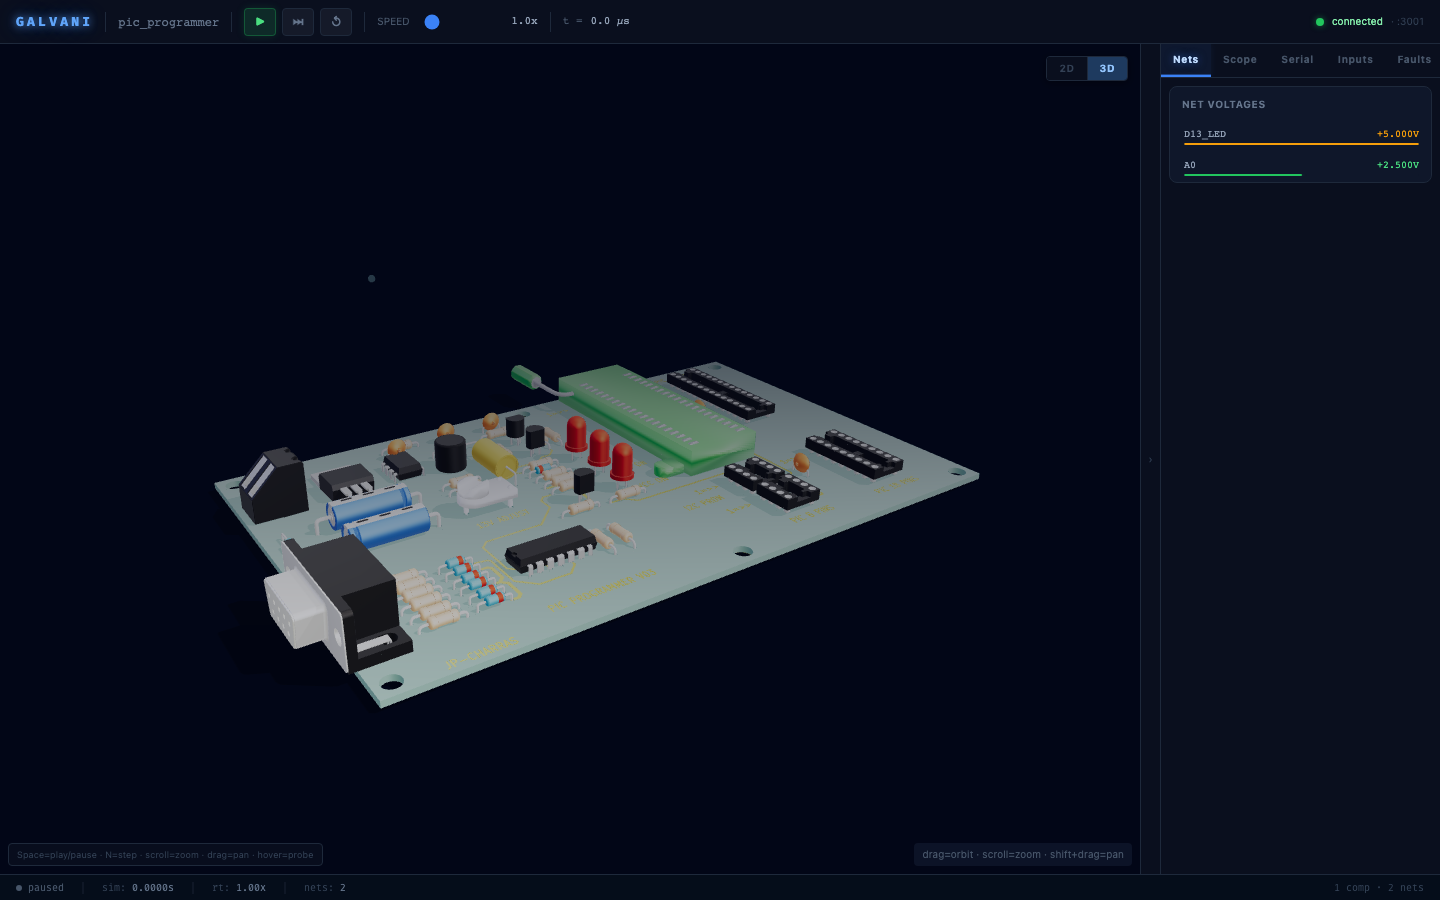
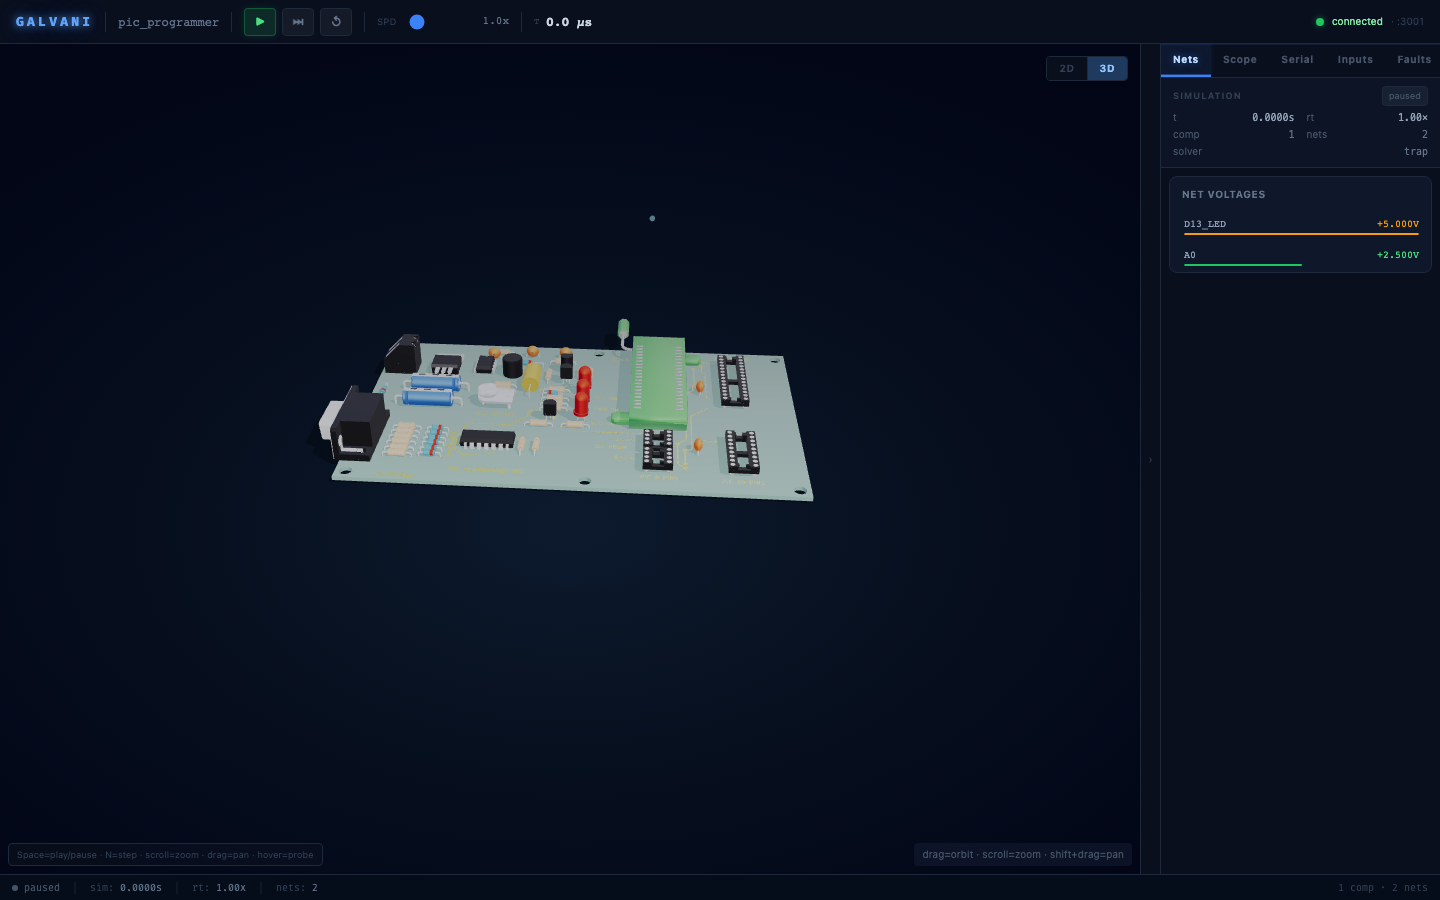
frontend: design-review fixes — sidebar, toolbar, 3D framing, status bar, debug chip
Sidebar (#2): add always-visible Simulation stats card (t, rt, comp, nets, solver)
below tab bar so every tab state looks intentional. Added faint inner top border
accent. Improved empty-state hint on faults tab.

Toolbar (#3): primary sim-time readout bumped to 13px/semibold/bright; secondary
labels (spd, t prefix) dimmed and reduced; speed label compact.

3D framing (#1): renderer uses alpha=true + transparent clear so CSS radial gradient
underlay shows through (eliminates flat black void). Camera fill formula rewritten
to target 65% viewport fill from the board diagonal. Canvas dimensions pre-synced
before Three.js constructor to handle headless Playwright layout. Near-white/flat
GLB materials (roughness>=0.8, lum>0.55) toned down 35% and converted to glossy
plastic (roughness=0.45, envMapIntensity=2.0) so placeholder models read as
physical objects rather than paper cutouts.

Bug #4 (scope status bar clips): beauty-shots.ts scope capture now uses full
1440px viewport instead of 520px; overflow:hidden + min-height on status bar.

Bug #5 (debug chip contradicts status bar): BoardViewer debug chip now uses
frame.net_voltages count when available, matching the status bar reading.

Bug #6 (scope minimap): fixed by full viewport — 2D board area has proper width.

diff --git a/frontend/src/lib/board-3d-viewer.ts b/frontend/src/lib/board-3d-viewer.ts
@@ -47,20 +47,24 @@ export class Board3DViewer {
   private disposed = false
 
   constructor(canvas: HTMLCanvasElement) {
-    // Renderer
-    this.renderer = new THREE.WebGLRenderer({ canvas, antialias: true, alpha: false })
+    // Renderer — alpha:true so the CSS gradient underneath is visible through the canvas
+    this.renderer = new THREE.WebGLRenderer({ canvas, antialias: true, alpha: true })
     this.renderer.setPixelRatio(Math.min(window.devicePixelRatio, 2))
-    this.renderer.setSize(canvas.clientWidth, canvas.clientHeight, false)
+    const rW = canvas.width > 0 ? canvas.width : (canvas.clientWidth > 0 ? canvas.clientWidth : 1280)
+    const rH = canvas.height > 0 ? canvas.height : (canvas.clientHeight > 0 ? canvas.clientHeight : 800)
+    this.renderer.setSize(rW, rH, false)
     this.renderer.shadowMap.enabled = true
     this.renderer.shadowMap.type = THREE.PCFSoftShadowMap
     this.renderer.outputColorSpace = THREE.SRGBColorSpace
     this.renderer.toneMapping = THREE.ACESFilmicToneMapping
     this.renderer.toneMappingExposure = 1.6
+    this.renderer.setClearColor(0x000000, 0) // fully transparent clear
 
     // Scene
     this.scene = new THREE.Scene()
-    this.scene.background = new THREE.Color(0x020617)
-    this.scene.fog = new THREE.FogExp2(0x020617, 3)
+    // No scene.background — let the CSS radial gradient show through the alpha channel
+    // Subtle depth fog — colour matched to background so it doesn't tint the board
+    this.scene.fog = new THREE.FogExp2(0x020617, 1.5)
 
     // Environment map (RoomEnvironment — cheap PMREM IBL, transforms PBR soldermask from flat to shiny)
     const pmremGen = new THREE.PMREMGenerator(this.renderer)
@@ -71,10 +75,13 @@ export class Board3DViewer {
     roomEnv.dispose()
     pmremGen.dispose()
 
-    // Camera
-    this.camera = new THREE.PerspectiveCamera(45, canvas.clientWidth / canvas.clientHeight, 0.001, 10)
+    // Camera — use canvas pixel dimensions (set by attribute) with safe fallback
+    const initW = canvas.width > 0 ? canvas.width : (canvas.clientWidth > 0 ? canvas.clientWidth : 1280)
+    const initH = canvas.height > 0 ? canvas.height : (canvas.clientHeight > 0 ? canvas.clientHeight : 800)
+    this.camera = new THREE.PerspectiveCamera(45, initW / initH, 0.001, 10)
     this.camera.position.set(0.15, 0.12, 0.18)
     this.camera.lookAt(0.12, 0, -0.08)
+    this.camera.updateProjectionMatrix()
 
     // Studio lighting: hemisphere + strong key + cool rim + warm fill
     // Physical light scale: these values are in candela for point/spot; directional needs higher values
@@ -149,20 +156,37 @@ export class Board3DViewer {
     box.getSize(size)
     const maxDim = Math.max(size.x, size.y, size.z)
 
+    // Point orbit controls at board center
     this.controls.target.copy(center)
 
-    // Frame the board tightly. Use the camera FOV to compute the correct orbit
-    // distance so the board fills roughly 75% of the viewport.
-    // Use slightly oblique angle for a product-photo feel.
+    // Frame the board so it fills ~65% of the viewport centered in frame.
+    // Key insight: with an oblique camera angle, we need to offset the look-at
+    // point slightly toward the camera (upward in world space) so the board
+    // appears centered rather than in the lower half.
     const fovRad = (this.camera.fov * Math.PI) / 180
-    const boardSpan = Math.max(size.x, size.z) // board footprint (ignoring height)
-    // Distance needed to see the board at 75% of vertical FOV
-    const dist = (boardSpan * 0.6) / Math.tan(fovRad / 2)
+    const boardSpan = Math.max(size.x, size.z) // board footprint span in metres
+    const boardDiag = Math.sqrt(size.x * size.x + size.z * size.z)
+
+    // Effective half-FOV: use vertical (smaller in landscape) for fill calculation
+    const halfFovV = fovRad / 2  // vertical half-FOV = 22.5° for 45° FOV
+
+    // Distance so the board diagonal fills 65% of the vertical viewport extent
+    const targetFill = 0.65
+    const dist = (boardDiag / 2) / (Math.tan(halfFovV) * targetFill)
+
+    // Product-photo angle: 30° elevation for a shallower, more centered view
+    const elevAngle = 0.52  // radians ~30°
+    const sideOffset = 0.15 // small lateral offset for visual interest
     this.camera.position.set(
-      center.x + boardSpan * 0.3,
-      center.y + dist * 0.6,
-      center.z + dist * 0.8,
+      center.x + sideOffset * boardSpan,
+      center.y + dist * Math.sin(elevAngle),
+      center.z + dist * Math.cos(elevAngle),
     )
+
+    // Shift the lookAt point slightly downward (toward board surface) to
+    // compensate for the overhead camera angle and center the board in frame
+    const lookAtShift = new THREE.Vector3(0, -dist * 0.08, 0)
+    this.controls.target.copy(center).add(lookAtShift)
     this.camera.near = maxDim * 0.001
     this.camera.far = maxDim * 30
     this.camera.updateProjectionMatrix()
@@ -192,15 +216,59 @@ export class Board3DViewer {
       mesh.castShadow = true
       mesh.receiveShadow = true
 
-      // Enhance PBR materials: ensure they pick up the environment map
+      // Enhance PBR materials and darken near-white plastic components
       const mats = Array.isArray(mesh.material) ? mesh.material : [mesh.material]
+      const newMats: THREE.Material[] = []
       for (const mat of mats) {
-        if (mat instanceof THREE.MeshStandardMaterial || mat instanceof THREE.MeshPhysicalMaterial) {
-          // Soldermask tends to be slightly glossy — dial up specular
-          if (mat.roughness > 0.7) mat.roughness = Math.max(0.45, mat.roughness - 0.2)
-          mat.envMapIntensity = 1.5
-          mat.needsUpdate = true
+        // Check for any material that has a .color property (Standard, Physical, Basic, Lambert, Phong)
+        const hasPBR = mat instanceof THREE.MeshStandardMaterial || mat instanceof THREE.MeshPhysicalMaterial
+        const hasFlatColor = mat instanceof THREE.MeshBasicMaterial || mat instanceof THREE.MeshLambertMaterial || mat instanceof THREE.MeshPhongMaterial
+        const matWithColor = mat as THREE.MeshStandardMaterial  // all above have .color
+
+        if (!hasPBR && !hasFlatColor) {
+          newMats.push(mat)
+          continue
         }
+
+        const c = matWithColor.color
+        const lr = c.r, lg = c.g, lb = c.b
+        const luminance = 0.2126 * lr + 0.7152 * lg + 0.0722 * lb
+        const maxC = Math.max(lr, lg, lb)
+        const minC = Math.min(lr, lg, lb)
+        const saturation = maxC > 0.01 ? (maxC - minC) / maxC : 0
+
+        // Near-white/cream placeholder GLB materials look flat and overexposed.
+        // Fix: check if the material is very high-luminance and low-saturation (pure white/cream)
+        // AND has high roughness (unlit flat look). Make it glossier so it reads as plastic.
+        // stickhub mat_0: r=0.871 g=0.791 b=0.604 → lum=0.795 sat=0.307 rough=1.0
+        // For materials where the entire model is one cream color, we tone them down slightly
+        // and add gloss rather than going full dark (which would darken the board body too).
+        if (hasPBR && luminance > 0.55 && saturation < 0.45 && (mat as THREE.MeshStandardMaterial).roughness >= 0.8) {
+          const pbr = mat as THREE.MeshStandardMaterial
+          // Tone the color down by 35% and add gloss
+          pbr.color.multiplyScalar(0.65)
+          pbr.roughness = 0.45
+          pbr.metalness = 0.0
+          pbr.envMapIntensity = 2.0
+          pbr.needsUpdate = true
+          newMats.push(mat)
+          continue
+        }
+
+        if (hasPBR) {
+          // Soldermask tends to be slightly glossy — dial up specular
+          const pbr = mat as THREE.MeshStandardMaterial
+          if (pbr.roughness > 0.7) pbr.roughness = Math.max(0.45, pbr.roughness - 0.2)
+          pbr.envMapIntensity = 1.5
+          pbr.needsUpdate = true
+        }
+        newMats.push(mat)
+      }
+
+      if (Array.isArray(mesh.material)) {
+        mesh.material = newMats
+      } else if (newMats.length === 1) {
+        mesh.material = newMats[0]
       }
     })
 

diff --git a/frontend/src/App.tsx b/frontend/src/App.tsx
@@ -168,6 +168,8 @@ export default function App() {
               width: 280,
               borderLeft: '1px solid #1e293b',
               background: '#0a0f1e',
+              // Inner top border accent gives the panel a grounded top edge
+              boxShadow: 'inset 0 1px 0 rgba(59,130,246,0.12)',
             }}
           >
             {/* Tab bar */}
@@ -199,6 +201,54 @@ export default function App() {
                   )}
                 </button>
               ))}
+            </div>
+
+            {/* Simulation stats — always-visible compact card below the tab bar */}
+            <div
+              className="shrink-0 px-3 py-2"
+              style={{ borderBottom: '1px solid #1e293b', background: 'rgba(15,23,42,0.6)' }}
+            >
+              <div className="flex items-center justify-between mb-1">
+                <span className="text-[9px] font-bold tracking-widest uppercase" style={{ color: '#334155' }}>Simulation</span>
+                <span
+                  className="text-[9px] px-1.5 py-0.5 rounded"
+                  style={{
+                    background: status?.running ? 'rgba(34,197,94,0.12)' : 'rgba(71,85,105,0.2)',
+                    color: status?.running ? '#4ade80' : '#475569',
+                    border: status?.running ? '1px solid rgba(34,197,94,0.25)' : '1px solid #1e293b',
+                  }}
+                >
+                  {status?.running ? 'running' : 'paused'}
+                </span>
+              </div>
+              <div className="grid grid-cols-2 gap-x-3 gap-y-0.5">
+                <div className="flex justify-between">
+                  <span className="text-[10px]" style={{ color: '#475569' }}>t</span>
+                  <span className="text-[10px] font-mono" style={{ color: '#94a3b8' }}>{(status?.sim_time ?? 0).toFixed(4)}s</span>
+                </div>
+                <div className="flex justify-between">
+                  <span className="text-[10px]" style={{ color: '#475569' }}>rt</span>
+                  <span className="text-[10px] font-mono" style={{ color: '#94a3b8' }}>{frame ? `${frame.realtime_factor.toFixed(2)}×` : '—'}</span>
+                </div>
+                {boardInfo && (
+                  <>
+                    <div className="flex justify-between">
+                      <span className="text-[10px]" style={{ color: '#475569' }}>comp</span>
+                      <span className="text-[10px] font-mono" style={{ color: '#64748b' }}>{boardInfo.num_components}</span>
+                    </div>
+                    <div className="flex justify-between">
+                      <span className="text-[10px]" style={{ color: '#475569' }}>nets</span>
+                      <span className="text-[10px] font-mono" style={{ color: '#64748b' }}>{boardInfo.num_nets}</span>
+                    </div>
+                  </>
+                )}
+                {status?.options?.integration && (
+                  <div className="col-span-2 flex justify-between">
+                    <span className="text-[10px]" style={{ color: '#475569' }}>solver</span>
+                    <span className="text-[10px] font-mono" style={{ color: '#64748b' }}>{status.options.integration}</span>
+                  </div>
+                )}
+              </div>
             </div>
 
             {/* Tab content */}
@@ -270,6 +320,13 @@ export default function App() {
                   send={send}
                 />
               )}
+
+              {/* Empty-state hint when the active tab has no data yet */}
+              {(sidebarTab === 'faults' && faultCount === 0) && (
+                <div className="px-4 py-6 flex flex-col items-center gap-2">
+                  <div className="text-[10px] font-mono text-center" style={{ color: '#1e293b' }}>no faults detected</div>
+                </div>
+              )}
             </div>
           </div>
         )}
@@ -277,12 +334,14 @@ export default function App() {
 
       {/* Bottom status bar */}
       <div
-        className="flex items-center gap-4 px-4 shrink-0 text-[10px]"
+        className="flex items-center gap-3 px-3 shrink-0 text-[10px] overflow-hidden"
         style={{
+          minHeight: 26,
           height: 26,
           background: '#050d1a',
           borderTop: '1px solid #1e293b',
           fontFamily: "'JetBrains Mono', 'Fira Code', monospace",
+          flexWrap: 'nowrap',
         }}
       >
         {/* Running indicator */}
@@ -331,7 +390,7 @@ export default function App() {
         {probes.length > 0 && (
           <>
             <span style={{ color: '#1e293b' }}>|</span>
-            <span style={{ color: '#334155' }}>
+            <span className="overflow-hidden" style={{ color: '#334155', maxWidth: 160, whiteSpace: 'nowrap', textOverflow: 'ellipsis' }}>
               probes: <span style={{ color: '#3b82f6' }}>{probes.join(', ')}</span>
             </span>
           </>

diff --git a/frontend/src/components/TransportBar.tsx b/frontend/src/components/TransportBar.tsx
@@ -124,7 +124,7 @@ export function TransportBar({ connected, boardInfo, status, send }: TransportBa
 
       {/* Speed */}
       <div className="flex items-center gap-2">
-        <span className="text-[10px]" style={{ color: '#475569' }}>SPEED</span>
+        <span className="text-[9px] uppercase tracking-wider" style={{ color: '#334155' }}>spd</span>
         <input
           type="range"
           min={0.1}
@@ -132,12 +132,12 @@ export function TransportBar({ connected, boardInfo, status, send }: TransportBa
           step={0.1}
           value={speedInput}
           onChange={handleSpeedChange}
-          className="w-20 h-1 rounded appearance-none cursor-pointer"
+          className="w-16 h-1 rounded appearance-none cursor-pointer"
           style={{ accentColor: '#3b82f6' }}
         />
         <span
           className="text-[11px] font-mono w-8 text-right"
-          style={{ color: '#94a3b8', fontFamily: "'JetBrains Mono', monospace" }}
+          style={{ color: '#64748b', fontFamily: "'JetBrains Mono', monospace" }}
         >
           {speedInput.toFixed(1)}x
         </span>
@@ -145,10 +145,10 @@ export function TransportBar({ connected, boardInfo, status, send }: TransportBa
 
       <div className="w-px h-5 shrink-0" style={{ background: '#1e293b' }} />
 
-      {/* Sim time */}
-      <div className="flex items-center gap-2 text-[11px]" style={{ fontFamily: "'JetBrains Mono', monospace" }}>
-        <span style={{ color: '#475569' }}>t =</span>
-        <span style={{ color: '#94a3b8' }}>{formatTime(simTime)}</span>
+      {/* Sim time — primary readout: larger + brighter */}
+      <div className="flex items-center gap-1.5" style={{ fontFamily: "'JetBrains Mono', monospace" }}>
+        <span className="text-[9px] uppercase tracking-wider" style={{ color: '#334155' }}>t</span>
+        <span className="text-[13px] font-semibold" style={{ color: '#cbd5e1' }}>{formatTime(simTime)}</span>
       </div>
 
       <div className="flex-1" />

diff --git a/frontend/src/components/Board3DViewer.tsx b/frontend/src/components/Board3DViewer.tsx
@@ -36,6 +36,17 @@ export function Board3DViewer({ glbUrl, board, frame, boardInfo, faults }: Board
     setError(null)
 
     const canvas = canvasRef.current
+    const container = containerRef.current
+
+    // Ensure the canvas pixel dimensions are set before Three.js reads them.
+    // In headless (Playwright) the ResizeObserver may not have fired yet; sync explicitly.
+    if (container) {
+      const { width, height } = container.getBoundingClientRect()
+      if (width > 0 && height > 0) {
+        canvas.width = Math.round(width)
+        canvas.height = Math.round(height)
+      }
+    }
 
     import('../lib/board-3d-viewer').then(async ({ Board3DViewer: Viewer3D }) => {
       if (!alive) return
@@ -94,10 +105,18 @@ export function Board3DViewer({ glbUrl, board, frame, boardInfo, faults }: Board
       className="relative w-full h-full overflow-hidden"
       style={{ background: '#020617' }}
     >
+      {/* Radial gradient backdrop — gives the board a grounded space instead of flat black */}
+      <div
+        className="absolute inset-0 pointer-events-none"
+        style={{
+          background: 'radial-gradient(ellipse 70% 60% at 50% 58%, #0d1a2e 0%, #07101f 45%, #020617 100%)',
+          zIndex: 0,
+        }}
+      />
       <canvas
         ref={canvasRef}
         className="absolute inset-0 w-full h-full"
-        style={{ display: 'block' }}
+        style={{ display: 'block', zIndex: 1 }}
       />
 
       {loading && (

diff --git a/frontend/src/components/BoardViewer.tsx b/frontend/src/components/BoardViewer.tsx
@@ -490,7 +490,11 @@ export function BoardViewer({ boardFile, frame, boardInfo, selectedNet, onFootpr
       {board && !loading && viewMode === '2d' && (
         <div className="absolute bottom-2 right-2 text-[10px] px-2 py-1 rounded"
           style={{ background: 'rgba(15,23,42,0.8)', color: '#475569', pointerEvents: 'none' }}>
-          {board.footprints.length} fp · {board.segments.length} segs · {board.nets.size} nets
+          {board.footprints.length} fp · {board.segments.length} segs
+          {/* Show live net count from simulation frame (consistent with status bar) when available */}
+          {frame && Object.keys(frame.net_voltages).length > 0
+            ? ` · ${Object.keys(frame.net_voltages).length} nets`
+            : board.nets.size > 0 ? ` · ${board.nets.size} nets` : null}
         </div>
       )}
     </div>
